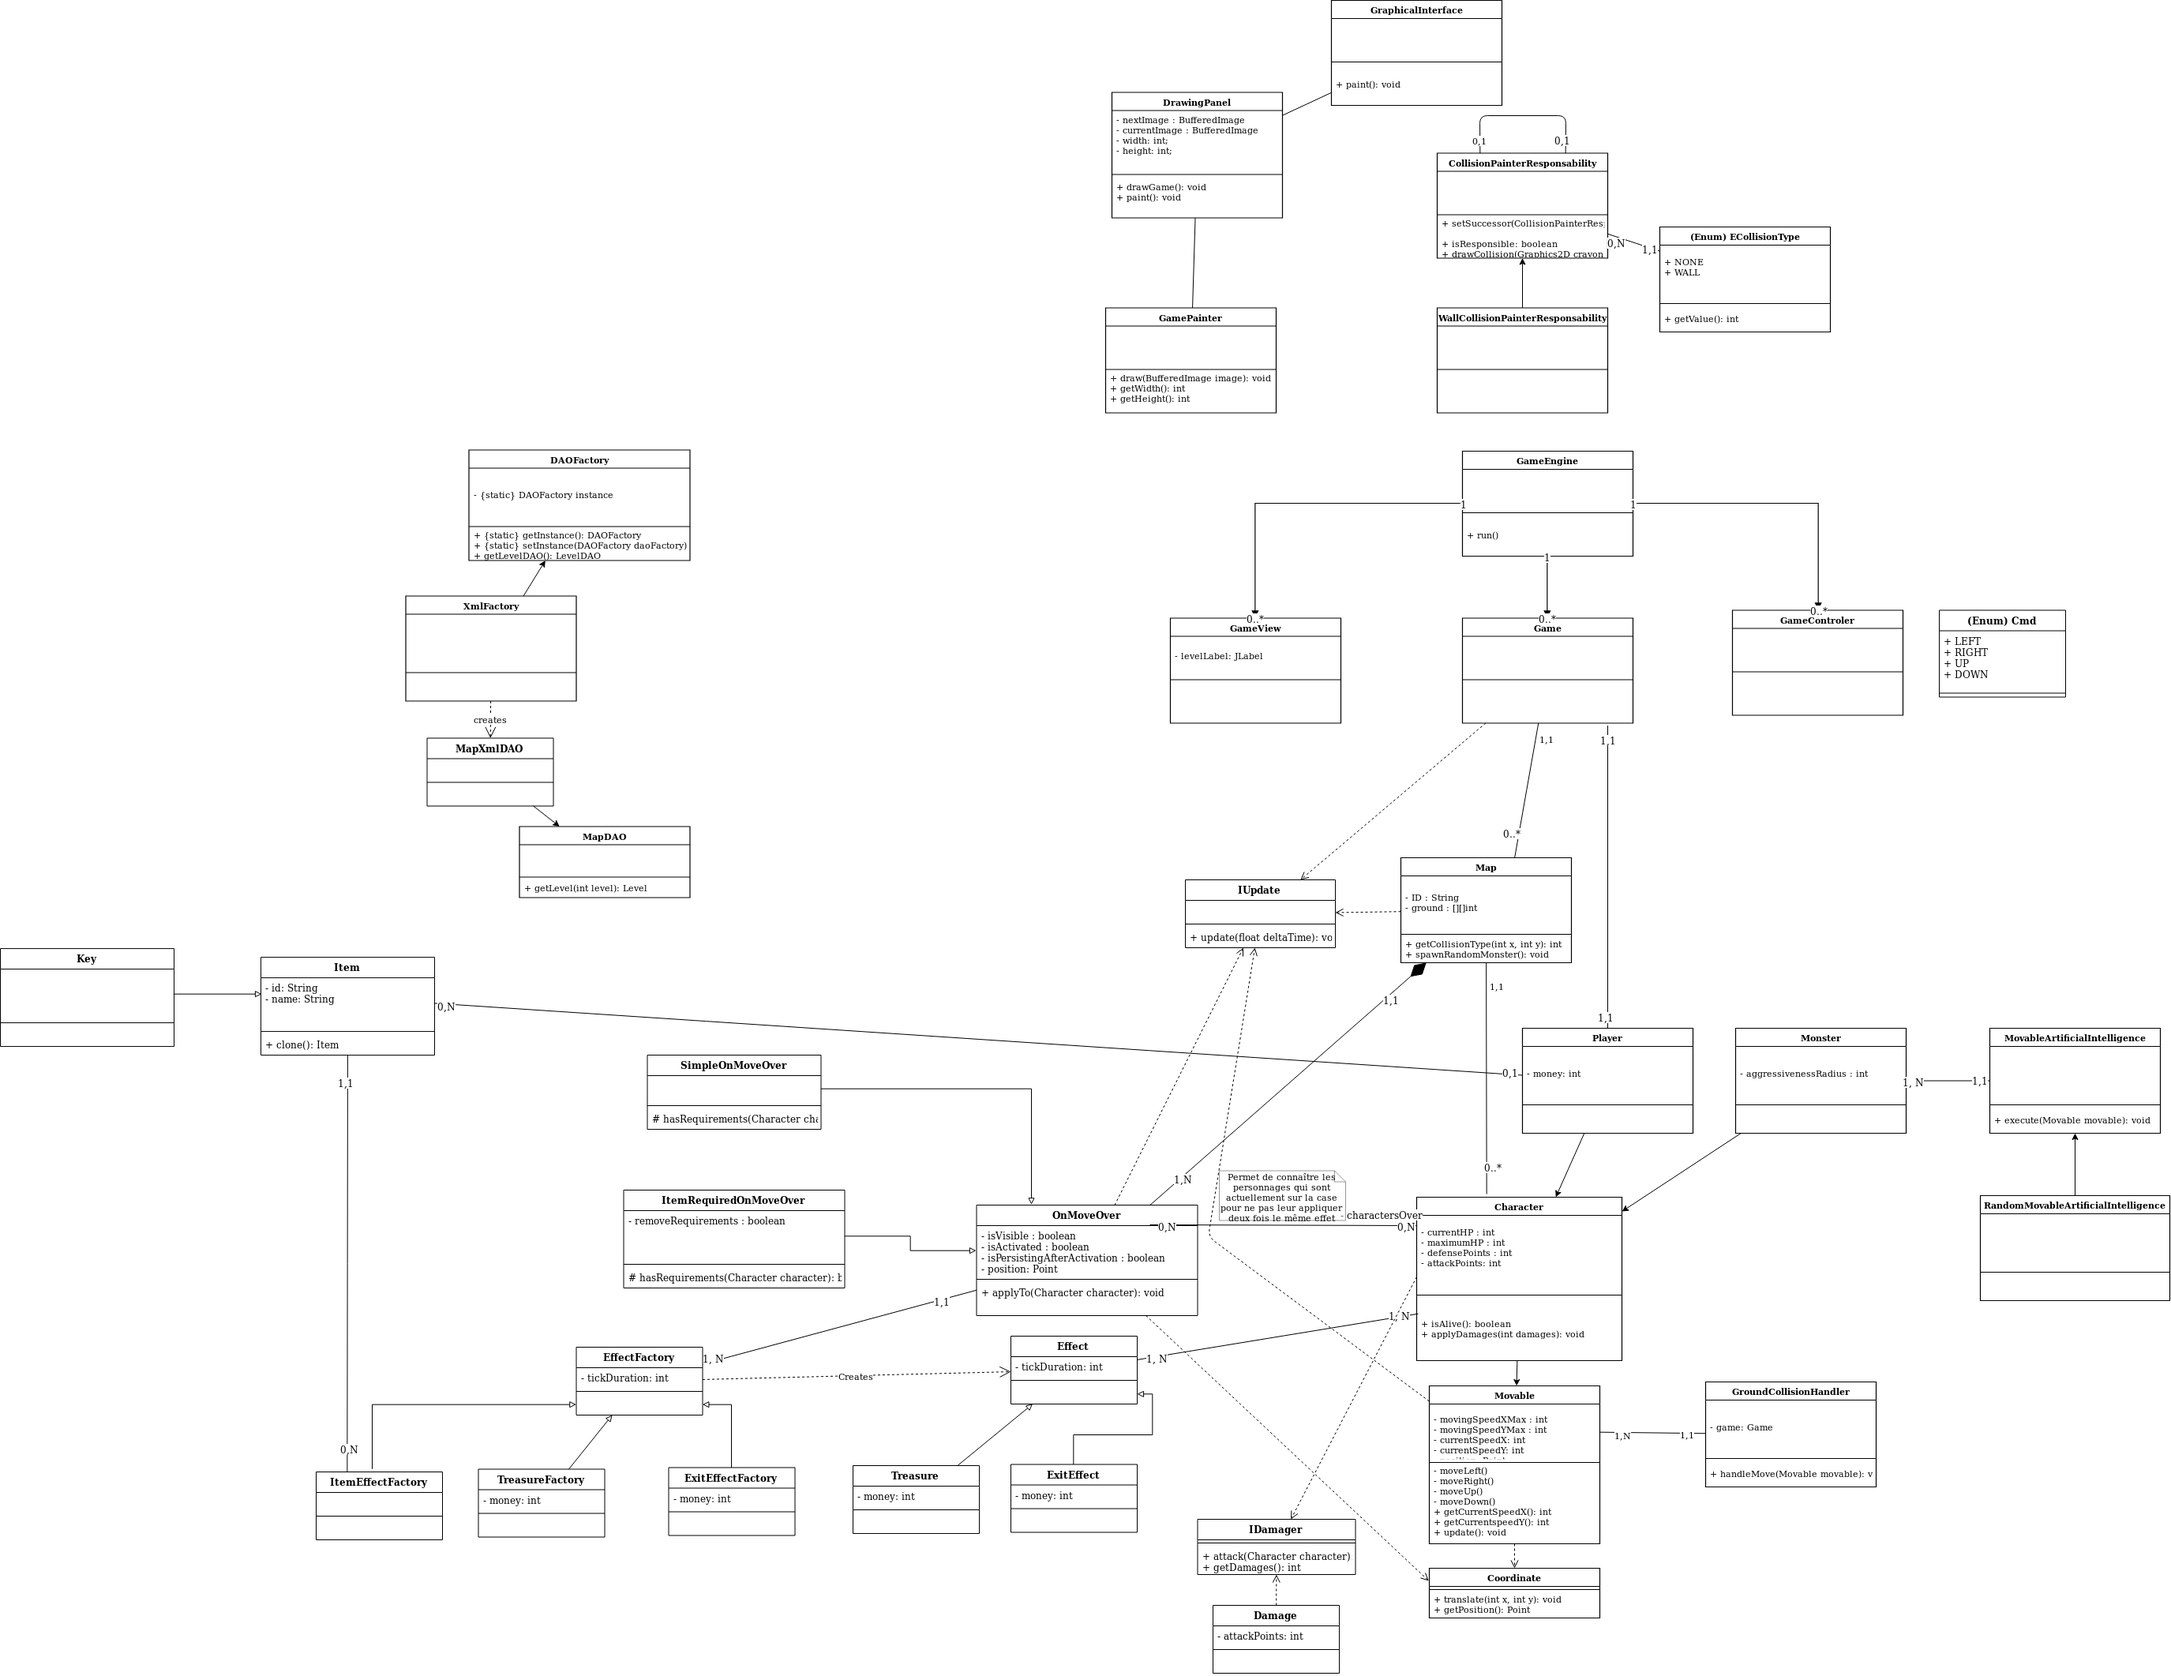
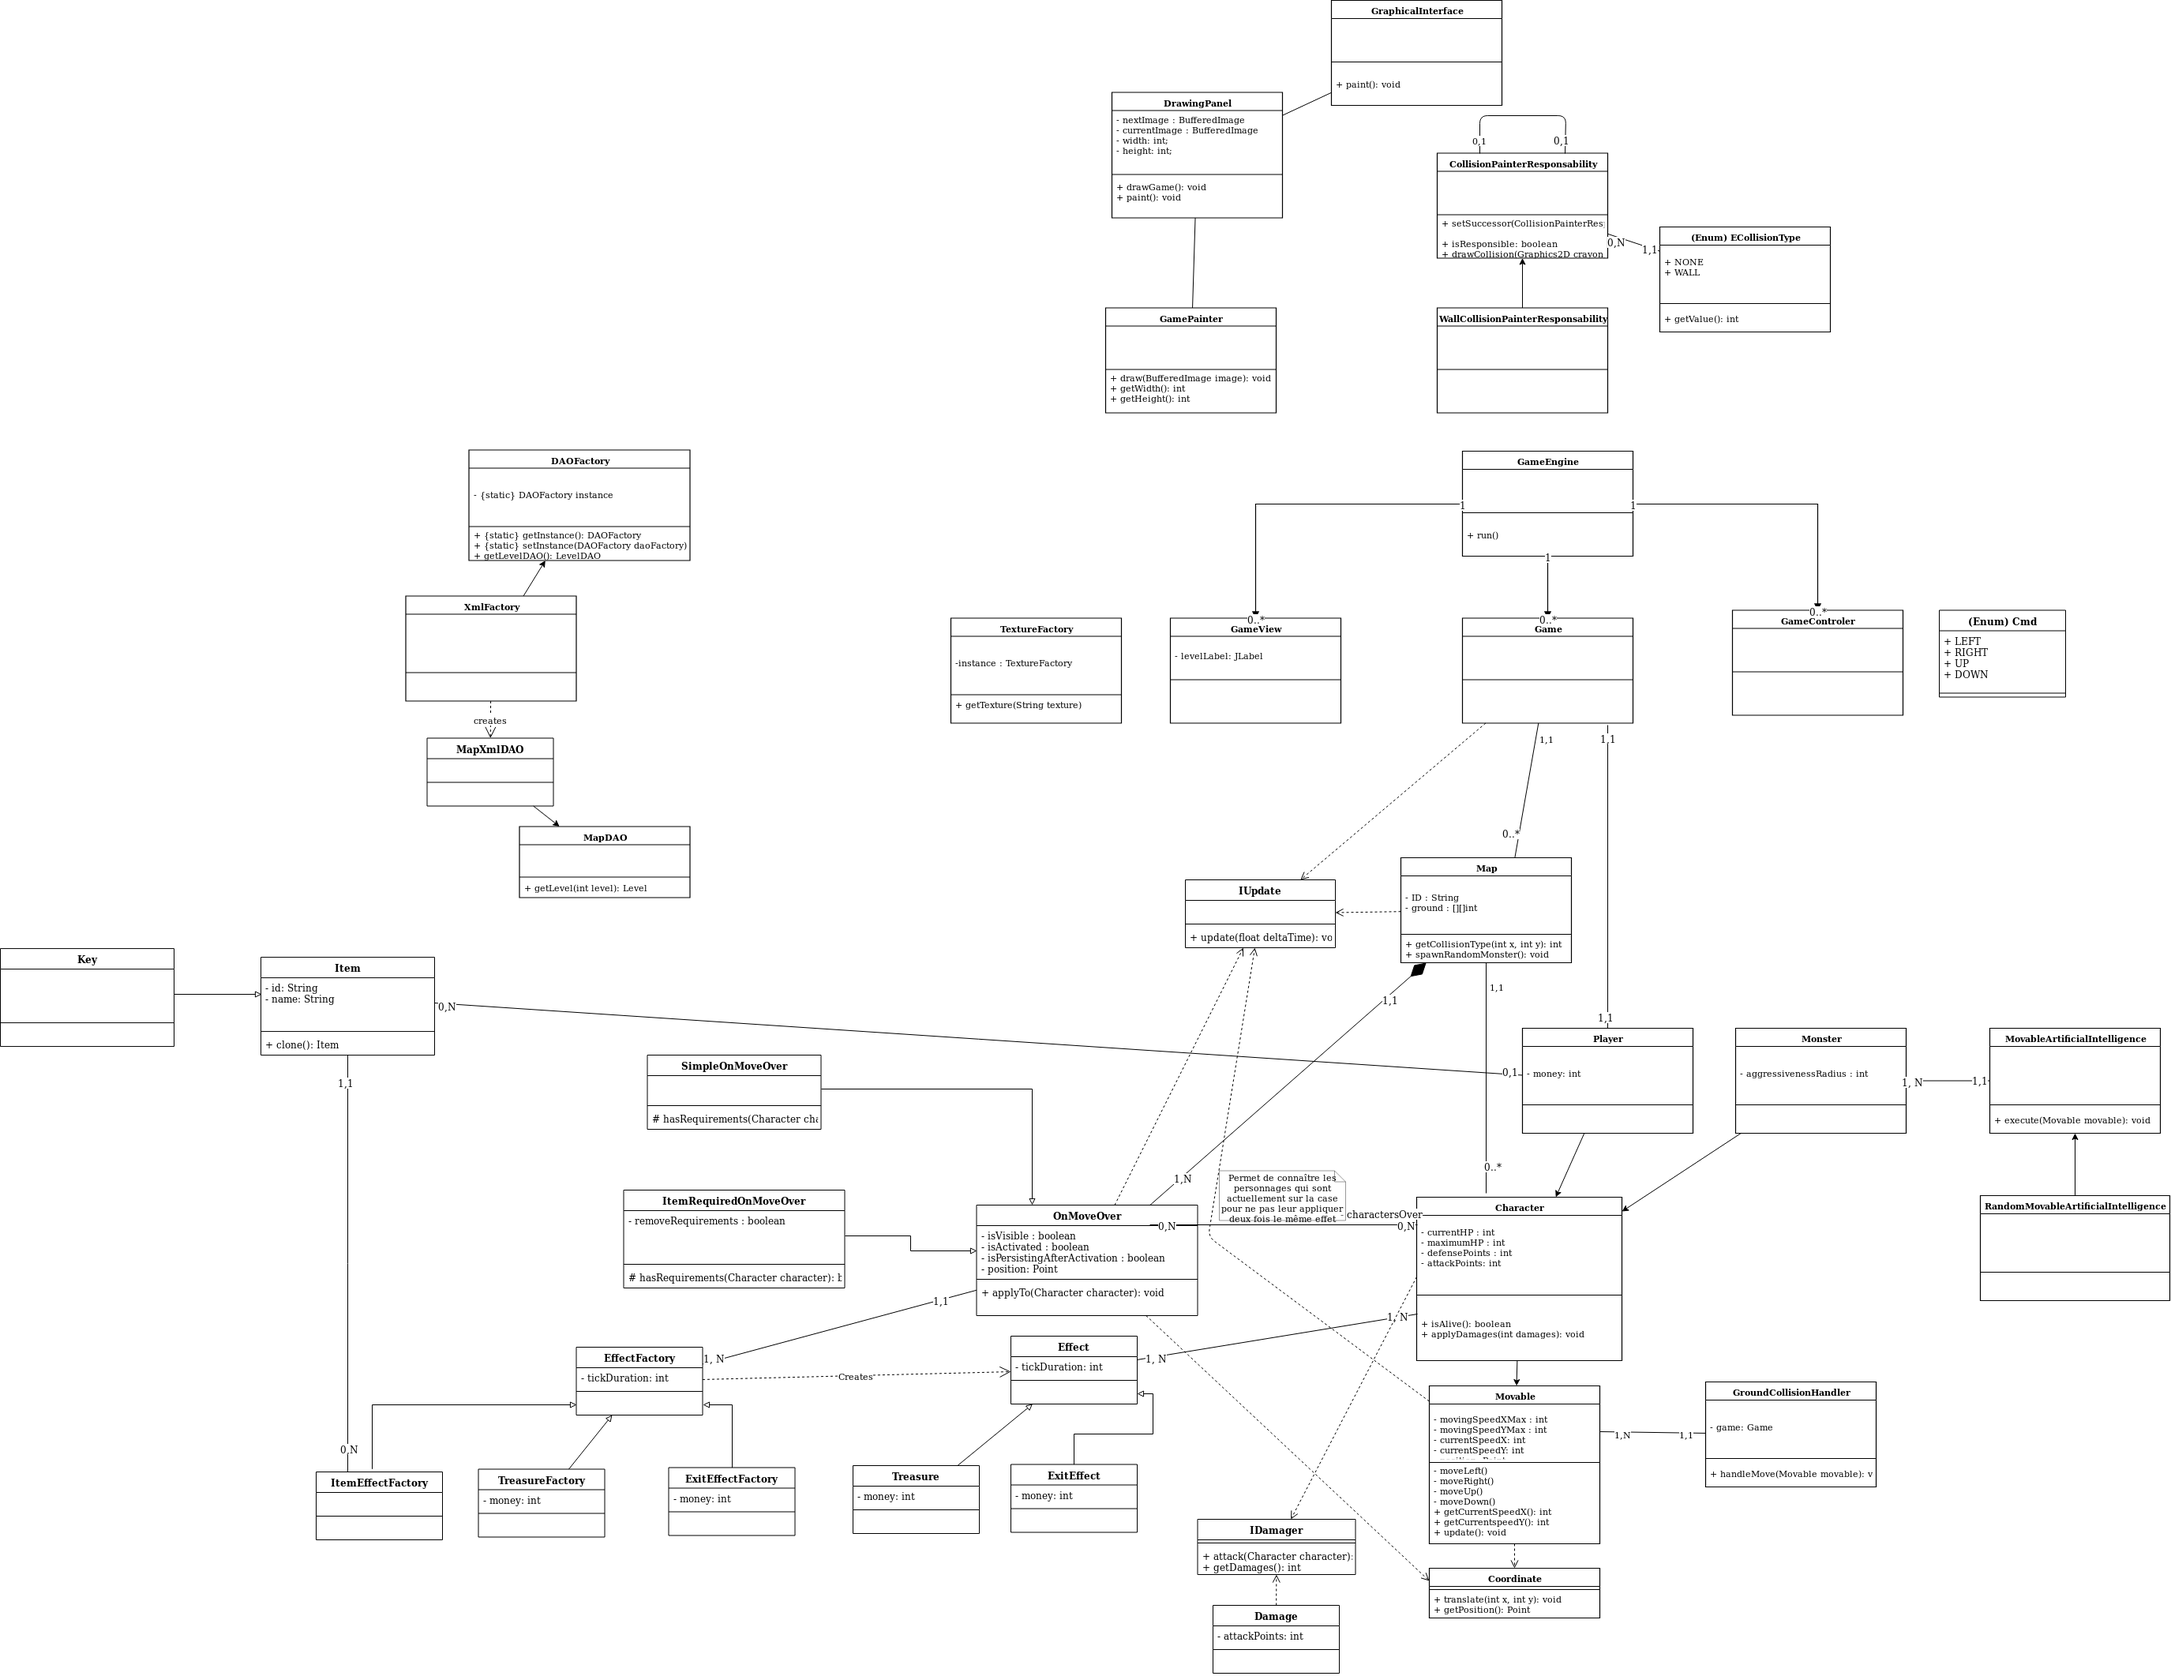
modif codeet changement texture porte

diff --git a/src/model/PacmanPainter.java b/src/model/PacmanPainter.java
@@ -35,8 +35,7 @@ public class PacmanPainter implements GamePainter {
 		map = m;
 		WIDTH = map.getWidth() * TILE_WIDTH;
 		HEIGHT = map.getHeigh() * TILE_HEIGHT;
-		collisionPainter = new WallCollisionPainterResponsability(
-				ECollisionType.WALL);
+		collisionPainter = new WallCollisionPainterResponsability(ECollisionType.WALL);
 	}
 
 	/**
@@ -58,22 +57,18 @@ public class PacmanPainter implements GamePainter {
 
 		for (int y = 0; y < map.getHeigh(); y++) {
 			for (int x = 0; x < map.getWidth(); x++) {
-				collisionPainter.drawCollision(crayon, x, y, TILE_WIDTH,
-						TILE_HEIGHT, map.getValue(x, y));
+				collisionPainter.drawCollision(crayon, x, y, TILE_WIDTH, TILE_HEIGHT, map.getValue(x, y));
 			}
 		}
 
 		for (OnMoveOver m : map.getEvents()) {
-			for (EffectFactory ef : m.getEffectFactory()) {
-				try {
-					texture = ef.getTexture();
-					img = TextureFactory.getInstance().get(texture);
-					crayon.drawImage(img, m.getPosition().x * TILE_WIDTH,
-							m.getPosition().y * TILE_HEIGHT, TILE_WIDTH,
-							TILE_HEIGHT, null);
-				} catch (Exception e) {
-					e.printStackTrace();
-				}
+			try {
+				texture = m.getEffectFactory().getTexture();
+				img = TextureFactory.getInstance().get(texture);
+				crayon.drawImage(img, m.getPosition().x * TILE_WIDTH, m.getPosition().y * TILE_HEIGHT, TILE_WIDTH,
+						TILE_HEIGHT, null);
+			} catch (Exception e) {
+				e.printStackTrace();
 			}
 		}
 
@@ -81,8 +76,7 @@ public class PacmanPainter implements GamePainter {
 			try {
 				texture = c.getTexture();
 				img = TextureFactory.getInstance().get(texture);
-				crayon.drawImage(img, c.getPosition().x * TILE_WIDTH,
-						c.getPosition().y * TILE_HEIGHT, TILE_WIDTH,
+				crayon.drawImage(img, c.getPosition().x * TILE_WIDTH, c.getPosition().y * TILE_HEIGHT, TILE_WIDTH,
 						TILE_HEIGHT, null);
 			} catch (Exception e) {
 				e.printStackTrace();

diff --git a/src/model/OnMoveOver.java b/src/model/OnMoveOver.java
@@ -16,7 +16,7 @@ public abstract class OnMoveOver implements IUpdate, ICoordinate, IDestructible 
 	private boolean toDestroy;
 
 	private ArrayList<Character> charactersAlreadyOn;
-	private ArrayList<EffectFactory> effectsFactories;
+	private EffectFactory effectsFactorie;
 
 	public OnMoveOver(Map map, Point position, boolean isVisible, boolean isActivated,
 			boolean isPersistingAfterActivation) {
@@ -28,19 +28,16 @@ public abstract class OnMoveOver implements IUpdate, ICoordinate, IDestructible 
 		this.isPersistingAfterActivation = isPersistingAfterActivation;
 		this.toDestroy = false;
 		this.charactersAlreadyOn = new ArrayList<Character>();
-		this.effectsFactories = new ArrayList<EffectFactory>();
 	}
 
 	protected void applyTo(Character character) {
-		for (EffectFactory ef : effectsFactories) {
-			boolean res = ef.applyTo(character);
-			if (!isPersistingAfterActivation && res)
-				toDestroy = true;
-		}
+		boolean res = effectsFactorie.applyTo(character);
+		if (!isPersistingAfterActivation && res)
+			toDestroy = true;
 	}
 
-	public void addEffectFactory(EffectFactory effectFactory) {
-		this.effectsFactories.add(effectFactory);
+	public void addEffectFactory(EffectFactory ef) {
+		effectsFactorie = ef;
 	}
 
 	private boolean hasSamePosition(Point position) {
@@ -70,8 +67,8 @@ public abstract class OnMoveOver implements IUpdate, ICoordinate, IDestructible 
 		return position;
 	}
 
-	public ArrayList<EffectFactory> getEffectFactory() {
-		return effectsFactories;
+	public EffectFactory getEffectFactory() {
+		return effectsFactorie;
 	}
 
 	@Override
@@ -83,7 +80,7 @@ public abstract class OnMoveOver implements IUpdate, ICoordinate, IDestructible 
 	public void translate(int distanceX, int distanceY) {
 		// Inutilisé
 	}
-	
+
 	@Override
 	public boolean isToDestroy() {
 		return toDestroy;

diff --git a/src/texture/TextureFactory.java b/src/texture/TextureFactory.java
@@ -7,12 +7,13 @@ import javax.imageio.ImageIO;
 
 public class TextureFactory {
 
-	private Image wall, door, key, treasure, character, monster, ground;
+	private Image wall, door, door_closed, key, treasure, character, monster, ground;
 	private static TextureFactory instance;
 
 	private TextureFactory() throws IOException {
 		wall = ImageIO.read(new File("res/wall.png"));
 		door = ImageIO.read(new File("res/door.png"));
+		door_closed = ImageIO.read(new File("res/door_closed.png"));
 		key = ImageIO.read(new File("res/key.png"));
 		treasure = ImageIO.read(new File("res/treasure.png"));
 		character = ImageIO.read(new File("res/character.png"));
@@ -43,6 +44,8 @@ public class TextureFactory {
 			return wall;
 		case "monster":
 			return monster;
+		case "door_closed":
+			return door_closed;
 		default:
 			throw new Exception("texture non implementee");
 		}

diff --git a/src/model/ItemRequiredOnMoveOver.java b/src/model/ItemRequiredOnMoveOver.java
@@ -18,8 +18,9 @@ public class ItemRequiredOnMoveOver extends OnMoveOver {
 	protected boolean hasRequirements(Character character) {
 		if (character.isType("Player")) {
 			ArrayList<Item> playerItems = new ArrayList<Item>();
+			Item itemFound;
 			for (Item i : itemsRequired) {
-				Item itemFound = ((Pacman) character).getItem(i.getId());
+				itemFound = ((Pacman) character).getItem(i.getId());
 				if (itemFound == null)
 					return false;
 				else
@@ -34,6 +35,22 @@ public class ItemRequiredOnMoveOver extends OnMoveOver {
 			return true;
 		}
 		return false;
+	}
+
+	@Override
+	public void update() {
+		super.update();
+		boolean none = true;
+		for (Item i : itemsRequired) {
+			if (!i.isCollected()) {
+				none = false;
+				break;
+			}
+		}
+
+		if (none) {
+			super.getEffectFactory().changeTexture();
+		}
 	}
 
 }

diff --git a/src/model/Item.java b/src/model/Item.java
@@ -3,11 +3,13 @@ package model;
 public abstract class Item {
 	private String id;
 	private String name;
+	private boolean collected;
 
 	public Item(String id, String name) {
 		super();
 		this.id = id;
 		this.name = name;
+		collected = false;
 	}
 
 	public String getId() {
@@ -18,7 +20,16 @@ public abstract class Item {
 		return name;
 	}
 
+	public void setCollected() {
+		collected = true;
+	}
+
+	public boolean isCollected() {
+		return collected;
+	}
+
 	public abstract String getTexture();
 
 	public abstract Item clone();
+
 }

diff --git a/src/model/ItemEffectFactory.java b/src/model/ItemEffectFactory.java
@@ -12,6 +12,7 @@ public class ItemEffectFactory extends EffectFactory {
 	public boolean applyTo(Character character) {
 		if (character.isType("Player")) {
 			((Pacman) character).addItem(item.clone());
+			item.setCollected();
 			return true;
 		} else
 			return false;
@@ -24,5 +25,10 @@ public class ItemEffectFactory extends EffectFactory {
 	@Override
 	public String getTexture() {
 		return item.getTexture();
+	}
+
+	@Override
+	public void changeTexture() {
+		// TODO Auto-generated method stub	
 	}
 }

diff --git a/src/model/ExitEffectFactory.java b/src/model/ExitEffectFactory.java
@@ -2,8 +2,11 @@ package model;
 
 public class ExitEffectFactory extends EffectFactory {
 
+	private String texture;
+
 	public ExitEffectFactory(int tickDuration) {
 		super(tickDuration);
+		texture = "door_closed";
 	}
 
 	@Override
@@ -17,7 +20,11 @@ public class ExitEffectFactory extends EffectFactory {
 
 	@Override
 	public String getTexture() {
-		return "door";
+		return texture;
 	}
 
+	public void changeTexture() {
+		texture = "door";
+
+	}
 }

diff --git a/src/engine/GameEngineGraphical.java b/src/engine/GameEngineGraphical.java
@@ -63,11 +63,11 @@ public class GameEngineGraphical {
 		while (!this.game.isFinished()) {
 			// demande controle utilisateur
 			Cmd c = this.gameController.getCommand();
-			// fait evoluer le game
-			this.game.evolve(c);
 
-			// affiche le game
+			// fait evoluer le game
 			tDeb = System.currentTimeMillis();
+			this.game.evolve(c);
+			// affiche le game
 			this.gui.paint();
 			tFin = System.currentTimeMillis();
 

diff --git a/src/model/TreasureEffectFactory.java b/src/model/TreasureEffectFactory.java
@@ -25,4 +25,9 @@ public class TreasureEffectFactory extends EffectFactory {
 	public String getTexture() {
 		return "treasure";
 	}
+
+	@Override
+	public void changeTexture() {
+		// TODO Auto-generated method stub
+	}
 }

diff --git a/src/model/DamageEffectFactory.java b/src/model/DamageEffectFactory.java
@@ -25,4 +25,9 @@ public class DamageEffectFactory extends EffectFactory {
 	public String getTexture() {
 		return "trap";
 	}
+
+	@Override
+	public void changeTexture() {
+		// TODO Auto-generated method stub
+	}
 }

diff --git a/src/model/TeleportationEffectFactory.java b/src/model/TeleportationEffectFactory.java
@@ -27,4 +27,8 @@ public class TeleportationEffectFactory extends EffectFactory {
 		return "Teleportation";
 	}
 
+	@Override
+	public void changeTexture() {
+		// TODO Auto-generated method stub
+	}
 }

diff --git a/src/model/EffectFactory.java b/src/model/EffectFactory.java
@@ -16,4 +16,6 @@ public abstract class EffectFactory {
 	public abstract boolean applyTo(Character character);
 
 	public abstract String getTexture();
+
+	public abstract void changeTexture();
 }
